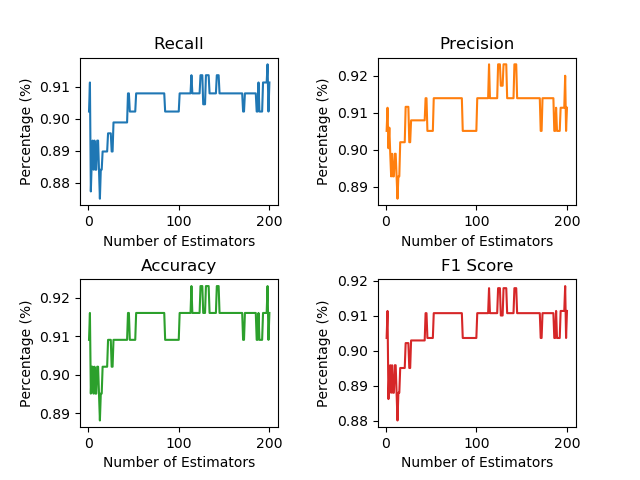
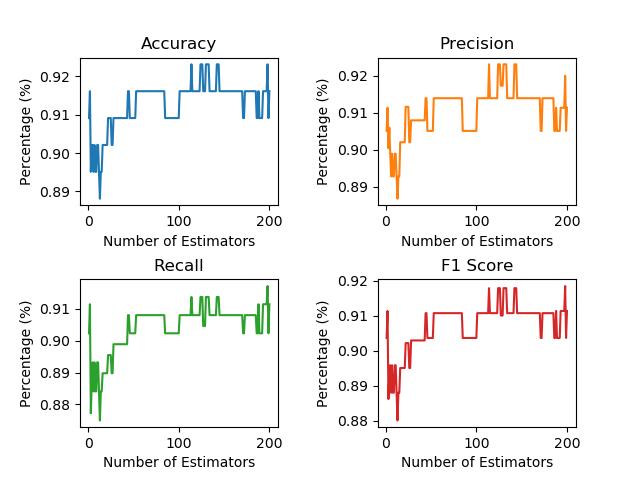
v2.3

diff --git a/2 - Decision Tree & Random Forest/RandomForest.py b/2 - Decision Tree & Random Forest/RandomForest.py
@@ -16,26 +16,15 @@
 # 'ensemble' package, for calling the Random Forest classifier
 # 'model_selection', (instead of the 'cross_validation' package), which will help validate our results.
 # =============================================================================
-
-
-# IMPORT NECESSARY LIBRARIES HERE
 from sklearn import ensemble, datasets, metrics, model_selection
-import numpy as np
 import matplotlib.pyplot as plt
 
 # =============================================================================
-
-
 # Load breastCancer data
 # =============================================================================
-
-
-# ADD COMMAND TO LOAD DATA HERE
 breastCancer = datasets.load_breast_cancer()
 
 # =============================================================================
-
-
 # Get samples from the data, and keep only the features that you wish.
 # Decision trees overfit easily from with a large number of features! Don't be greedy.
 numberOfFeatures = 10
@@ -60,9 +49,6 @@ x_train, x_test, y_train, y_test = model_selection.train_test_split(X, y, test_s
 # 'max_depth': The maximum depth of the tree. A large depth can lead to overfitting, so start with a maxDepth of
 #              e.g. 3, and increase it slowly by evaluating the results each time.
 # =============================================================================
-
-
-# ADD COMMAND TO CREATE RANDOM FOREST CLASSIFIER MODEL HERE
 model = ensemble.RandomForestClassifier(
     n_estimators=100,
     criterion='gini',
@@ -71,28 +57,16 @@ model = ensemble.RandomForestClassifier(
 )
 
 # =============================================================================
-
-
 # Let's train our model.
 # =============================================================================
-
-
-# ADD COMMAND TO TRAIN YOUR MODEL HERE
 model.fit(x_train, y_train)
 
 # =============================================================================
-
-
 # Ok, now let's predict the output for the test set
 # =============================================================================
-
-
-# ADD COMMAND TO MAKE A PREDICTION HERE
 y_predicted = model.predict(x_test)
 
 # =============================================================================
-
-
 # Time to measure scores. We will compare predicted output (from input of second subset, i.e. x_test)
 # with the real output (output of second subset, i.e. y_test).
 # You can call 'accuracy_score', 'recall_score', 'precision_score', 'f1_score' or any other available metric
@@ -104,18 +78,13 @@ y_predicted = model.predict(x_test)
 # 'weighted': Calculate metrics for each label, and find their average weighted by support (the number of true instances for each label).
 #             This alters ‘macro’ to account for label imbalance; it can result in an F-score that is not between precision and recall.
 # =============================================================================
-
-
-# ADD COMMANDS TO EVALUATE YOUR MODEL HERE (AND PRINT ON CONSOLE)
 print("Random Forest - Model Evaluation: ")
-print("Recall: ", metrics.recall_score(y_test, y_predicted, average="macro"))
-print("Precision:", metrics.precision_score(y_test, y_predicted, average="macro"))
 print("Accuracy: ", metrics.accuracy_score(y_test, y_predicted))
+print("Precision:", metrics.precision_score(y_test, y_predicted, average="macro"))
+print("Recall: ", metrics.recall_score(y_test, y_predicted, average="macro"))
 print("F1: ", metrics.f1_score(y_test, y_predicted, average="macro"))
 
 # =============================================================================
-
-
 # A Random Forest has been trained now, but let's train more models,
 # with different number of estimators each, and plot performance in terms of
 # the difference metrics. In other words, we need to make 'n'(e.g. 200) models,
@@ -126,9 +95,9 @@ print("F1: ", metrics.f1_score(y_test, y_predicted, average="macro"))
 n_estimators = 200
 # Create empty lists for all metrics + 1 for n_estimators
 num_of_trees = []
-recall = []
-precision = []
 accuracy = []
+precision = []
+recall = []
 f1score = []
 
 for i in range(1, n_estimators + 1):
@@ -145,48 +114,41 @@ for i in range(1, n_estimators + 1):
     y_pred = forest.predict(x_test)
     # Filling lists with metrics + n_estimators
     num_of_trees.append(i)
-    recall.append(metrics.recall_score(y_test, y_pred, average="macro"))
-    precision.append(metrics.precision_score(y_test, y_pred, average="macro"))
     accuracy.append(metrics.accuracy_score(y_test, y_pred))
+    precision.append(metrics.precision_score(y_test, y_pred, average="macro"))
+    recall.append(metrics.recall_score(y_test, y_pred, average="macro"))
     f1score.append(metrics.f1_score(y_test, y_pred, average="macro"))
 
-# plt.plot(num_of_trees, recall)
-# plt.show()
 fig, axs = plt.subplots(2, 2,
                         gridspec_kw={'hspace': 0.5, 'wspace': 0.5})
-axs[0, 0].plot(num_of_trees, recall, 'tab:blue')
-axs[0, 0].set_title('Recall')
+axs[0, 0].plot(num_of_trees, accuracy, 'tab:blue')
+axs[0, 0].set_title('Accuracy')
 axs[0, 1].plot(num_of_trees, precision, 'tab:orange')
 axs[0, 1].set_title('Precision')
-axs[1, 0].plot(num_of_trees, accuracy, 'tab:green')
-axs[1, 0].set_title('Accuracy')
+axs[1, 0].plot(num_of_trees, recall, 'tab:green')
+axs[1, 0].set_title('Recall')
 axs[1, 1].plot(num_of_trees, f1score, 'tab:red')
 axs[1, 1].set_title('F1 Score')
 
 for ax in axs.flat:
     ax.set(xlabel='Number of Estimators', ylabel='Percentage (%)')
 
-# Hide x labels and tick labels for top plots and y ticks for right plots.
-# for ax in axs.flat:
-#     ax.label_outer()
-
 # # Save plot
 plt.savefig('RandomForest_Metrics_BreastCancerDB.png')
 
 # # Show plot
 #plt.show()
-
+# =============================================================================
 # After finishing the above plots, try doing the same thing on the train data
 # Hint: you can plot on the same figure in order to add a second line.
 # Change the line color to distinguish performance metrics on train/test data
 # In the end, you should have 4 figures (one for each metric)
 # And each figure should have 2 lines (one for train data and one for test data)
-
-
+# =============================================================================
 overfit_num_of_trees = []
-overfit_recall = []
-overfit_precision = []
 overfit_accuracy = []
+overfit_precision = []
+overfit_recall = []
 overfit_f1score = []
 
 for i in range(1, n_estimators + 1):
@@ -195,7 +157,6 @@ for i in range(1, n_estimators + 1):
         n_estimators=i,
         criterion='gini',
         max_depth=3,
-        # warm_start=True,
         random_state=1)
     # Training models
     overfit_forest.fit(x_train, y_train)
@@ -203,34 +164,31 @@ for i in range(1, n_estimators + 1):
     overfit_y_pred = overfit_forest.predict(x_train)
     # Filling lists with metrics + n_estimators
     overfit_num_of_trees.append(i)
-    overfit_recall.append(metrics.recall_score(y_train, overfit_y_pred, average="macro"))
-    overfit_precision.append(metrics.precision_score(y_train, overfit_y_pred, average="macro"))
     overfit_accuracy.append(metrics.accuracy_score(y_train, overfit_y_pred))
+    overfit_precision.append(metrics.precision_score(y_train, overfit_y_pred, average="macro"))
+    overfit_recall.append(metrics.recall_score(y_train, overfit_y_pred, average="macro"))
     overfit_f1score.append(metrics.f1_score(y_train, overfit_y_pred, average="macro"))
-
 
 fig2, axs2 = plt.subplots(2, 2,
                         gridspec_kw={'hspace': 0.5, 'wspace': 0.5})
 
-axs2[0, 0].plot(num_of_trees, recall, 'tab:orange')
-axs2[0, 0].plot(overfit_num_of_trees, overfit_recall, label='train set')
-axs2[0, 0].set_title('Recall')
+axs2[0, 0].plot(num_of_trees, accuracy, 'tab:orange', label='test set')
+axs2[0, 0].plot(overfit_num_of_trees, overfit_accuracy, label='train set')
+axs2[0, 0].set_title('Accuracy')
 axs2[0, 1].plot(num_of_trees, precision, 'tab:orange')
-axs2[0, 1].plot(overfit_num_of_trees, overfit_precision, label='train set')
+axs2[0, 1].plot(overfit_num_of_trees, overfit_precision)
 axs2[0, 1].set_title('Precision')
-axs2[1, 0].plot(num_of_trees, accuracy, 'tab:orange')
-axs2[1, 0].plot(overfit_num_of_trees, overfit_accuracy, label='train set')
-axs2[1, 0].set_title('Accuracy')
+axs2[1, 0].plot(num_of_trees, recall, 'tab:orange')
+axs2[1, 0].plot(overfit_num_of_trees, overfit_recall)
+axs2[1, 0].set_title('Recall')
 axs2[1, 1].plot(num_of_trees, f1score, 'tab:orange')
-axs2[1, 1].plot(overfit_num_of_trees, overfit_f1score, label='train set')
+axs2[1, 1].plot(overfit_num_of_trees, overfit_f1score)
 axs2[1, 1].set_title('F1 Score')
 
 for ax in axs2.flat:
     ax.set(xlabel='Number of Estimators', ylabel='Percentage (%)')
 
-# Hide x labels and tick labels for top plots and y ticks for right plots.
-# for ax in axs.flat:
-#     ax.label_outer()
+fig2.legend(shadow=True, fancybox=True, loc=1)
 
 # # Save plot
 plt.savefig('RandomForest_Metrics_Overfit_BreastCancerDB.png')

diff --git a/2 - Decision Tree & Random Forest/DecisionTree.py b/2 - Decision Tree & Random Forest/DecisionTree.py
@@ -96,9 +96,9 @@ y_predicted = model.predict(x_test)
 # print("Precision: %2f" % metrics.precision_score(y_test, y_predicted, average="macro"))
 # print("F1: %2f" % metrics.f1_score(y_test, y_predicted, average="macro"))
 print("Decision Tree - Model Evaluation: ")
-print("Recall: ", metrics.recall_score(y_test, y_predicted, average="macro"))
-print("Precision:", metrics.precision_score(y_test, y_predicted, average="macro"))
 print("Accuracy: ", metrics.accuracy_score(y_test, y_predicted))
+print("Precision:", metrics.precision_score(y_test, y_predicted, average="macro"))
+print("Recall: ", metrics.recall_score(y_test, y_predicted, average="macro"))
 print("F1: ", metrics.f1_score(y_test, y_predicted, average="macro"))
 
 # =============================================================================
@@ -109,9 +109,9 @@ print("F1: ", metrics.f1_score(y_test, y_predicted, average="macro"))
 y_predicted_train = model.predict(x_train)
 print("")
 print("Prediction using train_set - Overfitting test!")
-print("Recall: ", metrics.recall_score(y_train, y_predicted_train, average="macro"))
-print("Precision:", metrics.precision_score(y_train, y_predicted_train, average="macro"))
 print("Accuracy: ", metrics.accuracy_score(y_train, y_predicted_train))
+print("Precision:", metrics.precision_score(y_train, y_predicted_train, average="macro"))
+print("Recall: ", metrics.recall_score(y_train, y_predicted_train, average="macro"))
 print("F1: ", metrics.f1_score(y_train, y_predicted_train, average="macro"))
 
 # =============================================================================
